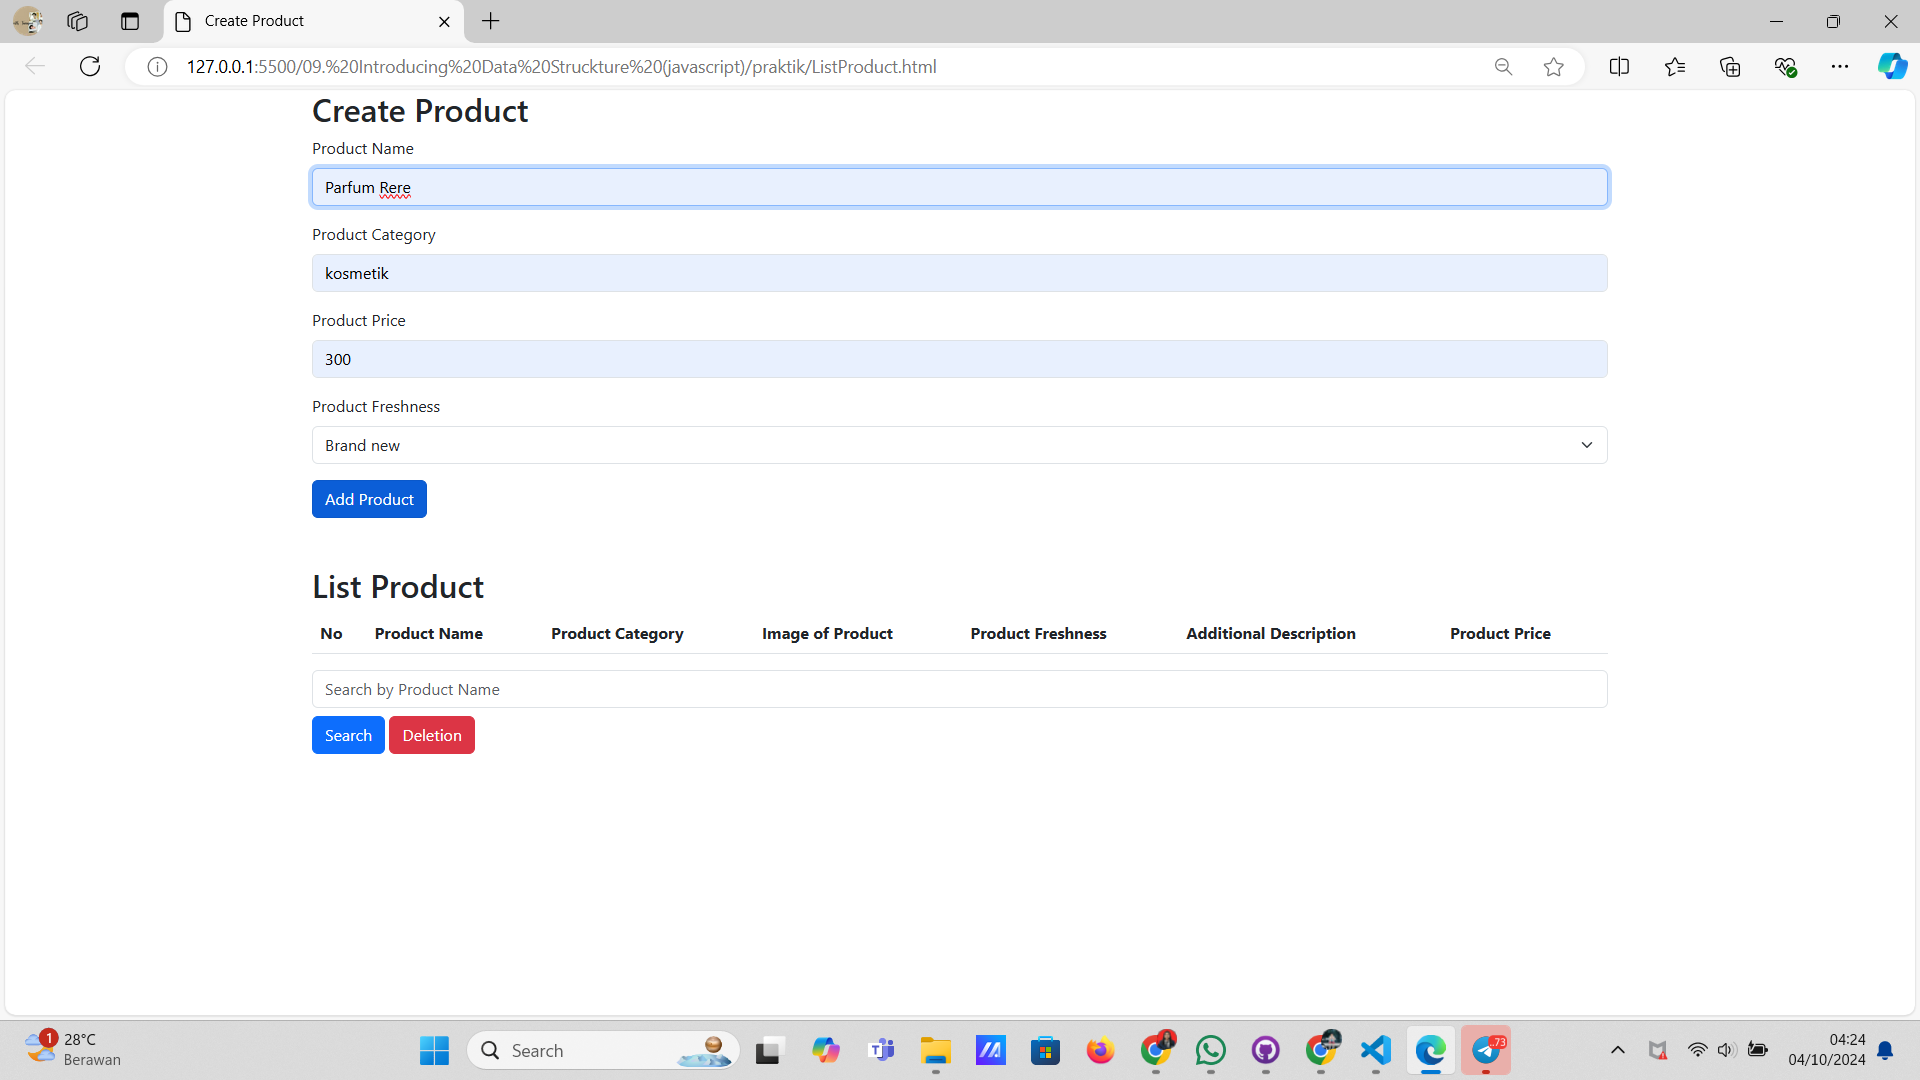
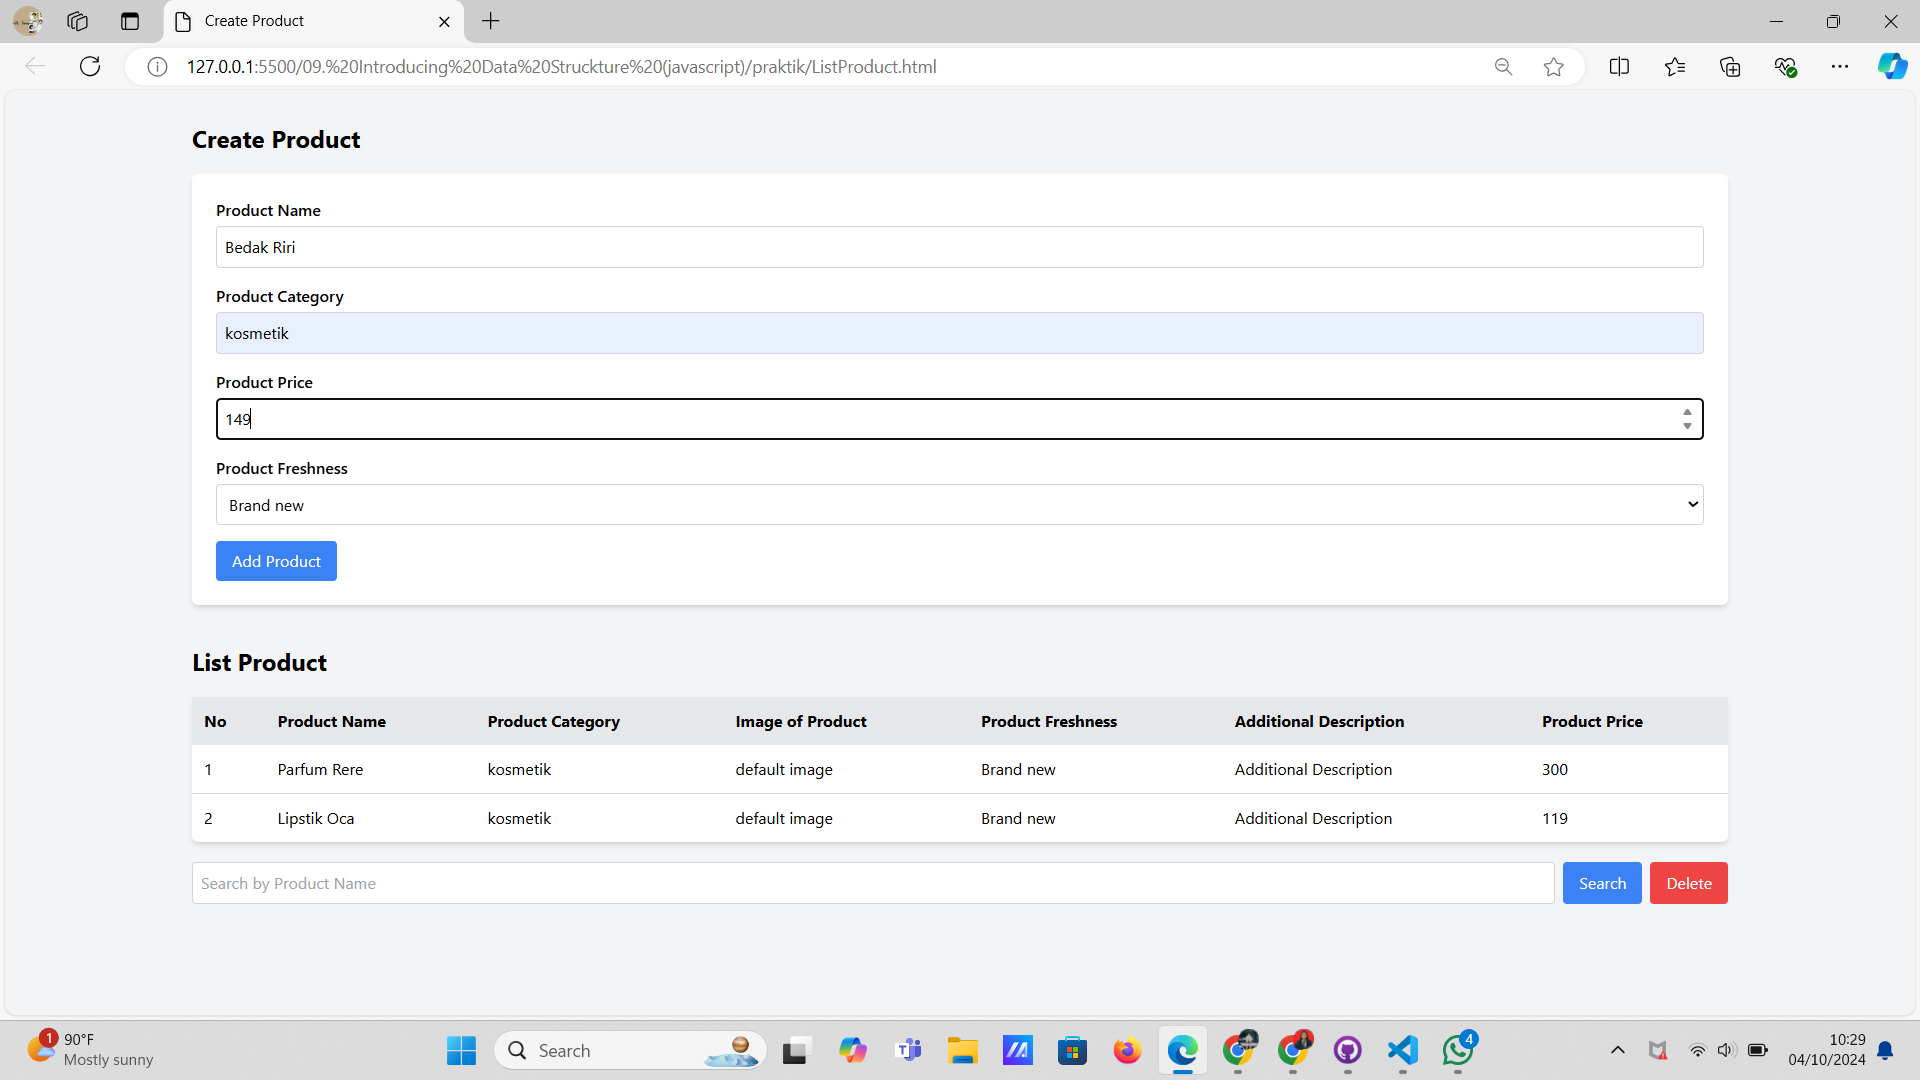
push

diff --git a/09. Introducing Data Struckture (javascript)/praktik/ListProduct.html b/09. Introducing Data Struckture (javascript)/praktik/ListProduct.html
@@ -4,82 +4,85 @@
     <meta charset="UTF-8">
     <meta name="viewport" content="width=device-width, initial-scale=1.0">
     <title>Create Product</title>
-    <link href="https://cdn.jsdelivr.net/npm/bootstrap@5.3.0-alpha3/dist/css/bootstrap.min.css" rel="stylesheet">
+    <script src="https://cdn.tailwindcss.com"></script>
 </head>
-<body>
-    <div class="container">
-        <h2>Create Product</h2>
-        <form id="productForm">
-            <div class="mb-3">
-                <label for="productName" class="form-label">Product Name</label>
-                <input type="text" class="form-control" id="productName" required>
+<body class="bg-gray-100 p-8">
+    <div class="container mx-auto">
+        <h2 class="text-2xl font-bold mb-5">Create Product</h2>
+        <form id="productForm" class="space-y-4 bg-white p-6 shadow-md rounded-md">
+            <div>
+                <label for="productName" class="block font-semibold mb-1">Product Name</label>
+                <input type="text" id="productName" class="w-full p-2 border border-gray-300 rounded" required>
             </div>
-            <div class="mb-3">
-                <label for="productCategory" class="form-label">Product Category</label>
-                <input type="text" class="form-control" id="productCategory" required>
+            <div>
+                <label for="productCategory" class="block font-semibold mb-1">Product Category</label>
+                <input type="text" id="productCategory" class="w-full p-2 border border-gray-300 rounded" required>
             </div>
-            <div class="mb-3">
-                <label for="productPrice" class="form-label">Product Price</label>
-                <input type="number" class="form-control" id="productPrice" required>
+            <div>
+                <label for="productPrice" class="block font-semibold mb-1">Product Price</label>
+                <input type="number" id="productPrice" class="w-full p-2 border border-gray-300 rounded" required>
             </div>
-            <div class="mb-3">
-                <label for="productFreshness" class="form-label">Product Freshness</label>
-                <select class="form-select" id="productFreshness" required>
+            <div>
+                <label for="productFreshness" class="block font-semibold mb-1">Product Freshness</label>
+                <select id="productFreshness" class="w-full p-2 border border-gray-300 rounded" required>
                     <option value="Brand new">Brand new</option>
                     <option value="Second Hand">Second Hand</option>
                     <option value="Refurbished">Refurbished</option>
                 </select>
             </div>
-            <button type="submit" class="btn btn-primary">Add Product</button>
+            <button type="submit" class="bg-blue-500 text-white px-4 py-2 rounded">Add Product</button>
         </form>
 
-        <h2 class="mt-5">List Product</h2>
-        <table class="table" id="productTable">
-            <thead>
+        <h2 class="text-2xl font-bold mt-10 mb-5">List Product</h2>
+        <table class="min-w-full bg-white shadow-md rounded-md">
+            <thead class="bg-gray-200">
                 <tr>
-                    <th>No</th>
-                    <th>Product Name</th>
-                    <th>Product Category</th>
-                    <th>Image of Product</th>
-                    <th>Product Freshness</th>
-                    <th>Additional Description</th>
-                    <th>Product Price</th>
+                    <th class="p-3 text-left">No</th>
+                    <th class="p-3 text-left">Product Name</th>
+                    <th class="p-3 text-left">Product Category</th>
+                    <th class="p-3 text-left">Image of Product</th>
+                    <th class="p-3 text-left">Product Freshness</th>
+                    <th class="p-3 text-left">Additional Description</th>
+                    <th class="p-3 text-left">Product Price</th>
                 </tr>
             </thead>
-            <tbody>
-               
+            <tbody id="productTable" class="divide-y divide-gray-300">
+                <!-- Data akan muncul di sini -->
             </tbody>
         </table>
 
-        <input type="text" id="searchInput" class="form-control" placeholder="Search by Product Name" />
-        <button id="searchButton" class="btn btn-primary mt-2">Search</button>
-        <button id="deleteButton" class="btn btn-danger mt-2">Deletion</button>
+        <div class="flex mt-5 space-x-2">
+            <input type="text" id="searchInput" class="w-full p-2 border border-gray-300 rounded" placeholder="Search by Product Name" />
+            <button id="searchButton" class="bg-blue-500 text-white px-4 py-2 rounded">Search</button>
+            <button id="deleteButton" class="bg-red-500 text-white px-4 py-2 rounded">Delete</button>
+        </div>
     </div>
 
     <script>
         let productData = [];
         const productForm = document.getElementById('productForm');
-        const productTable = document.getElementById('productTable').getElementsByTagName('tbody')[0];
+        const productTable = document.getElementById('productTable');
         const searchButton = document.getElementById('searchButton');
         const deleteButton = document.getElementById('deleteButton');
         const searchInput = document.getElementById('searchInput');
 
-        // Fungsi untuk render tabel produk
         function renderTable() {
-            productTable.innerHTML = '';  
+            productTable.innerHTML = '';  // Bersihkan isi tabel
             productData.forEach((product, index) => {
-                const row = productTable.insertRow();
-                row.insertCell(0).innerText = index + 1;
-                row.insertCell(1).innerText = product.name;
-                row.insertCell(2).innerText = product.category;
-                row.insertCell(3).innerText = 'default image';  
-                row.insertCell(4).innerText = product.freshness;
-                row.insertCell(5).innerText = 'Additional Description'; 
-                row.insertCell(6).innerText = product.price;
+                const row = document.createElement('tr');
+                row.innerHTML = `
+                    <td class="p-3">${index + 1}</td>
+                    <td class="p-3">${product.name}</td>
+                    <td class="p-3">${product.category}</td>
+                    <td class="p-3">default image</td>
+                    <td class="p-3">${product.freshness}</td>
+                    <td class="p-3">Additional Description</td>
+                    <td class="p-3">${product.price}</td>
+                `;
+                productTable.appendChild(row);
             });
         }
 
-        // Fungsi untuk tambah produk
         productForm.addEventListener('submit', function(event) {
             event.preventDefault();
             const productName = document.getElementById('productName').value;
@@ -100,8 +103,8 @@
 
         deleteButton.addEventListener('click', function() {
             if (productData.length > 0) {
-                productData.pop();  
-                renderTable();  
+                productData.pop();  // Hapus produk terakhir
+                renderTable();  // Update tabel setelah produk dihapus
                 alert('Last product has been deleted.');
             } else {
                 alert('No product to delete.');
@@ -128,7 +131,5 @@
         });
 
     </script>
-
-    <script src="https://cdn.jsdelivr.net/npm/bootstrap@5.3.0-alpha3/dist/js/bootstrap.bundle.min.js"></script>
 </body>
 </html>

diff --git a/01. Introducing FrontEnd/README.md b/01. Introducing FrontEnd/README.md
@@ -1,6 +1,19 @@
 # React_Monicha-Ailsa-Neha-Utomo
 
-Hal hal yang saya pelajari pada materi minggu 1 introducing front end :
-- Sebelum mempelajari react pertama tama harus mengenal front end dulu
-- Tugas seorang front end yaitu menghubungkan antar muka pengguna, bertanggung jawab atas visual yang bisa dilihat/ interaksi dengan pengguna, dan tidak semua hasil desainer bisa diwujudkan oleh front end, front end harus bisa memilih memilah dan menentukan yang cocok (jadi tidak harus sama persis oleh permintaan)
-- Untuk menjadi seorang front end tidak cukup hanya mempelajari bahasa pemrograman, seorang front end harus mempelajari dasar dulu seperti internet, html, css, java script, vcs, package managers, dll
+## 1. Pengenalan Front End
+Sebelum mempelajari **React**, sangat penting untuk memahami apa itu **front end** terlebih dahulu. Front end merujuk pada bagian aplikasi yang berinteraksi langsung dengan pengguna, yang mencakup elemen-elemen visual seperti layout, warna, tipografi, dan interaksi lainnya. Tugas utama seorang **front-end developer** adalah memastikan tampilan yang dibuat sesuai dengan desain dan memberikan pengalaman pengguna yang baik.
+
+## 2. Tugas Seorang Front-End Developer
+Seorang front-end developer bertanggung jawab untuk menghubungkan **antarmuka pengguna** dengan logika aplikasi yang berjalan di back-end. Tugas utama mereka meliputi:
+- Mewujudkan desain menjadi tampilan yang interaktif dan responsif.
+- Berfokus pada elemen visual yang dapat dilihat dan diinteraksi oleh pengguna.
+- Menentukan elemen desain yang cocok dan dapat diimplementasikan dengan baik. Tidak semua hasil desain bisa diwujudkan secara sempurna, dan developer harus memilih serta menyesuaikan elemen yang paling sesuai untuk diterapkan.
+
+## 3. Hal-Hal yang Harus Dipelajari sebagai Front-End Developer
+Untuk menjadi front-end developer yang baik, tidak cukup hanya mempelajari bahasa pemrograman. Ada beberapa dasar penting yang perlu dipahami:
+- **Internet**: Memahami cara kerja internet, HTTP/HTTPS, domain, DNS, dan lain-lain.
+- **HTML, CSS, dan JavaScript**: Ini adalah fondasi utama dalam pengembangan front-end. HTML untuk struktur, CSS untuk gaya, dan JavaScript untuk interaktivitas.
+- **Version Control System (VCS)**: Seperti Git, yang digunakan untuk mengelola versi kode dan berkolaborasi dalam tim.
+- **Package Managers**: Seperti npm atau yarn, yang membantu mengelola library dan dependensi dalam proyek.
+  
+Mempelajari dasar-dasar ini akan memberikan fondasi yang kuat sebelum melanjutkan ke tahap pengembangan menggunakan framework atau library seperti React.

diff --git a/11. Introducing React/README.md b/11. Introducing React/README.md
@@ -1,3 +1,23 @@
 # React_Monicha-Ailsa-Neha-Utomo
 
-Introducing React
+## 1. Apa Itu React?
+**React** adalah library JavaScript yang digunakan untuk membangun antarmuka pengguna (UI) yang interaktif dan cepat pada aplikasi web maupun mobile. Dikembangkan dan di-maintain oleh Facebook, React adalah open-source dan sangat populer dalam pengembangan aplikasi modern. Dalam arsitektur MVC (Model-View-Controller), React hanya berfokus pada lapisan **View**, yaitu bagian yang berhubungan langsung dengan tampilan kepada pengguna.
+
+Mengapa menggunakan React?
+- **Deklaratif**: React memudahkan dalam mengelola state dan rendering tampilan dengan pendekatan deklaratif.
+- **Berbasis Komponen**: Setiap bagian dari UI dipecah menjadi komponen yang dapat digunakan kembali, membuat kode lebih modular dan mudah dipelihara.
+- **Belajar Sekali, Tulis di Mana Saja**: Dengan pengetahuan React, Anda bisa membangun aplikasi untuk web maupun mobile (dengan React Native).
+- **Teknologi yang Populer dan Teruji**: React telah digunakan oleh banyak perusahaan besar dan memiliki komunitas yang luas, sehingga mudah menemukan dukungan dan dokumentasi.
+
+## 2. Virtual DOM dan DOM Manipulation
+**DOM (Document Object Model)** adalah representasi struktural dari halaman web yang memungkinkan JavaScript memanipulasi elemen-elemen di dalamnya. Di aplikasi tradisional, setiap perubahan pada UI akan memodifikasi DOM secara langsung, yang bisa memperlambat performa karena DOM adalah struktur besar.
+
+**Virtual DOM** adalah konsep yang diperkenalkan oleh React untuk meningkatkan efisiensi manipulasi UI. Virtual DOM adalah representasi dari UI dalam bentuk objek JavaScript yang disimpan dalam memori. Ketika terjadi perubahan di UI, React akan membandingkan Virtual DOM dengan DOM asli, dan hanya memperbarui elemen yang perlu diubah, sehingga performa aplikasi menjadi lebih cepat dan efisien.
+
+## 3. Tools yang Diperlukan
+Untuk mulai menggunakan React, Anda memerlukan beberapa alat dasar:
+- **Browser**: Sebagai platform untuk menjalankan dan menguji aplikasi web yang dibangun dengan React.
+- **Text Editor**: Digunakan untuk menulis dan mengedit kode. Contoh text editor populer termasuk Visual Studio Code, Sublime Text, atau Atom.
+- **Command Line Shell**: Seperti terminal di Mac atau command prompt di Windows, digunakan untuk menjalankan perintah-perintah yang diperlukan untuk mengelola proyek React, seperti menginstal dependensi, menjalankan server lokal, dan lainnya.
+
+Dengan ketiga tools tersebut, Anda dapat memulai membangun aplikasi React dari awal hingga siap untuk diproduksi.

diff --git a/04. HTML/README.md b/04. HTML/README.md
@@ -1,7 +1,23 @@
 # React_Monicha-Ailsa-Neha-Utomo
 
-hal hal yang saya pelajari dari materi html adalah : 
+## 1. Apa Itu HTML?
+**HTML (HyperText Markup Language)** adalah standar yang secara luas digunakan untuk menampilkan dan mengatur halaman web. HTML memungkinkan kita membuat struktur dasar dari sebuah halaman web dengan berbagai elemen yang digunakan untuk menampilkan teks, gambar, link, tabel, form, dan banyak lagi. Setiap elemen memiliki tag khusus yang digunakan untuk menandai bagian-bagian tertentu dari halaman.
 
-- html merupakan sebuah standar yang digunakan secara luas untuk menampilkan halaman web
-- kegunaan html yaitu membuat struktur dari halaman  web, mengatur tampilan dan isi halaman web, membuat tabel dengan tag html table, membuat form html, membuat gambar dengan canvas, mempublikasikan halaman website secara online.
-- beberapa hal penting yang perlu dipelajari diantaranya adalah struktur dasar <!DOCTYPE html> <html> <head> <tittle> <body> , tag semantik <header> <footer> <section> , elemen teks <h1> <h2> <h3> <p> , gambar <img> , atribut id,class,src,alt,title 
+## 2. Kegunaan HTML
+HTML memiliki berbagai kegunaan dalam pengembangan halaman web, antara lain:
+- Membuat struktur dan konten halaman web.
+- Mengatur tampilan teks, gambar, dan elemen multimedia.
+- Membuat tabel menggunakan tag `<table>`.
+- Membuat form interaktif untuk input data menggunakan tag `<form>`.
+- Menggunakan **canvas** untuk menampilkan gambar dan grafik dinamis.
+- Membantu mempublikasikan halaman website secara online dengan mengatur elemen yang dapat diakses oleh browser.
+
+## 3. Elemen Penting dalam HTML
+Ada beberapa elemen penting yang perlu dipahami dalam HTML:
+- **Struktur dasar HTML**: Tag seperti `<!DOCTYPE html>`, `<html>`, `<head>`, `<title>`, dan `<body>` adalah dasar untuk setiap halaman HTML.
+- **Tag semantik**: Tag seperti `<header>`, `<footer>`, dan `<section>` membantu memberi makna dan struktur yang jelas pada halaman.
+- **Elemen teks**: Menggunakan tag seperti `<h1>`, `<h2>`, `<h3>`, dan `<p>` untuk mengatur hierarki teks pada halaman.
+- **Gambar**: Tag `<img>` digunakan untuk menampilkan gambar, dengan atribut penting seperti `src`, `alt`, dan `title` untuk menentukan sumber dan informasi tambahan tentang gambar.
+- **Atribut**: Atribut seperti `id`, `class`, `src`, dan `alt` digunakan untuk memberikan informasi tambahan dan mengatur tampilan elemen pada halaman.
+
+Memahami elemen-elemen ini akan membantu dalam membangun halaman web yang baik dan terstruktur.

diff --git a/05. CSS/README.md b/05. CSS/README.md
@@ -1,6 +1,18 @@
 # React_Monicha-Ailsa-Neha-Utomo
 
-hal hal yang saya pelajari dari materi css adalah :
-- css merupakan hal dasar yang penting untuk dipelajari karena fungsinya yaitu dapat menghias halaman web dan juga dapat mengatur posisi halaman web
-- terdapat 3 cara untuk menambahkan css ke dalam html yaitu eksternal css, internal cs, dan inline css.
-- penanda html ke dalam css dapat menggunakan selector ID (#) dan class (.) , beberapa selector bisa dikelompokkan dalam satu deklarasi (grouping) , css memiliki beberapa font, margin and padding, baground, link event, transisi, display, table, dan banyak lagi.
+## 1. Pengenalan CSS
+**CSS (Cascading Style Sheets)** adalah salah satu dasar penting yang harus dipelajari dalam pengembangan web. Fungsinya adalah untuk mengatur tampilan visual dari halaman web, seperti menghias elemen-elemen, mengatur layout, dan memastikan halaman terlihat menarik serta responsif. CSS memungkinkan pengembang untuk memisahkan konten dari presentasi, sehingga mempermudah pemeliharaan dan pengembangan.
+
+## 2. Cara Menambahkan CSS
+Ada tiga cara utama untuk menambahkan CSS ke dalam HTML:
+- **Eksternal CSS**: Menggunakan file CSS terpisah yang dihubungkan ke halaman HTML dengan tag `<link>`. Ini adalah metode yang paling disarankan untuk pengelolaan yang lebih terstruktur.
+- **Internal CSS**: CSS yang ditempatkan di dalam tag `<style>` di dalam bagian `<head>` dari dokumen HTML.
+- **Inline CSS**: Menambahkan CSS langsung pada elemen HTML dengan atribut `style`, meskipun ini jarang digunakan karena mempersulit pemeliharaan.
+
+## 3. Selector dan Properti CSS
+Beberapa hal penting yang dipelajari dalam CSS:
+- **Selector**: Selector digunakan untuk memilih elemen HTML yang akan diberi gaya. Ada dua jenis selector yang umum digunakan, yaitu **ID selector** menggunakan tanda `#` dan **class selector** menggunakan tanda `.`. 
+- **Grouping**: Beberapa selector bisa dikelompokkan dalam satu deklarasi untuk menerapkan gaya yang sama ke banyak elemen sekaligus.
+- **Properti CSS**: CSS memiliki berbagai properti seperti **font**, **margin** dan **padding**, **background**, **link events**, **transisi**, **display**, **table**, dan banyak lagi. Properti ini memungkinkan pengembang untuk mengatur aspek visual dari elemen-elemen halaman.
+
+Dengan memahami dasar-dasar ini, saya dapat lebih mudah mengatur tampilan halaman web dengan CSS yang terstruktur dan efisien.

diff --git a/02. Git/README.md b/02. Git/README.md
@@ -1,6 +1,10 @@
 # React_Monicha-Ailsa-Neha-Utomo
 
-hal hal yang dapat saya pelajari dari materi ke 2 git yaitu : 
-- sebelumnya saya belum mengenal apa pentingnya version control dan apa itu git, git membantu untuk melacak setiap perubahan yang saya buat dalam proyek, sehingga saat ada kesalahan bisa kembali ke versi sebelumnya
-- Dengan branch ternyata saya bisa mengerjakan fitur baru tanpa mengganggu kode utama
-- Dari materi yang disampaikan membantu membuat saya menjadi bisa menyelesaikan konflik
+## 1. Pengenalan Git dan Version Control
+Sebelumnya, saya belum begitu mengenal pentingnya **version control** dan apa itu Git. **Git** adalah salah satu sistem version control yang populer dan banyak digunakan oleh para developer untuk mengembangkan software secara kolaboratif. Git membantu melacak setiap perubahan yang saya buat dalam proyek, sehingga jika terjadi kesalahan, saya dapat kembali ke versi sebelumnya dengan mudah. Ini memberi keamanan dan fleksibilitas dalam pengembangan proyek.
+
+## 2. Branching dan Workflow
+Dengan menggunakan **branch** di Git, saya dapat mengerjakan fitur baru atau perbaikan tanpa mengganggu kode utama yang berada di branch **main**. Branching memungkinkan pengembangan yang terisolasi dan teratur. Selain itu, saya juga mempelajari cara membuat **pull request** untuk meminta review dan menggabungkan kode dari branch baru ke branch utama. Materi ini sangat membantu dalam memahami **workflow** pengembangan proyek secara kolaboratif.
+
+## 3. Resolusi Konflik dan Penggunaan GitHub
+Materi ini juga mengajarkan bagaimana cara **menyelesaikan konflik** yang muncul ketika ada perubahan pada bagian kode yang sama dari berbagai branch. Saya belajar cara menyelesaikan konflik tersebut agar kode bisa digabungkan dengan lancar. Selain itu, saya juga mempelajari cara membuat **repository** di GitHub, membuat **branch baru**, dan melakukan **pull request** untuk menerapkan proses pengembangan software yang lebih efisien dan terstruktur.
